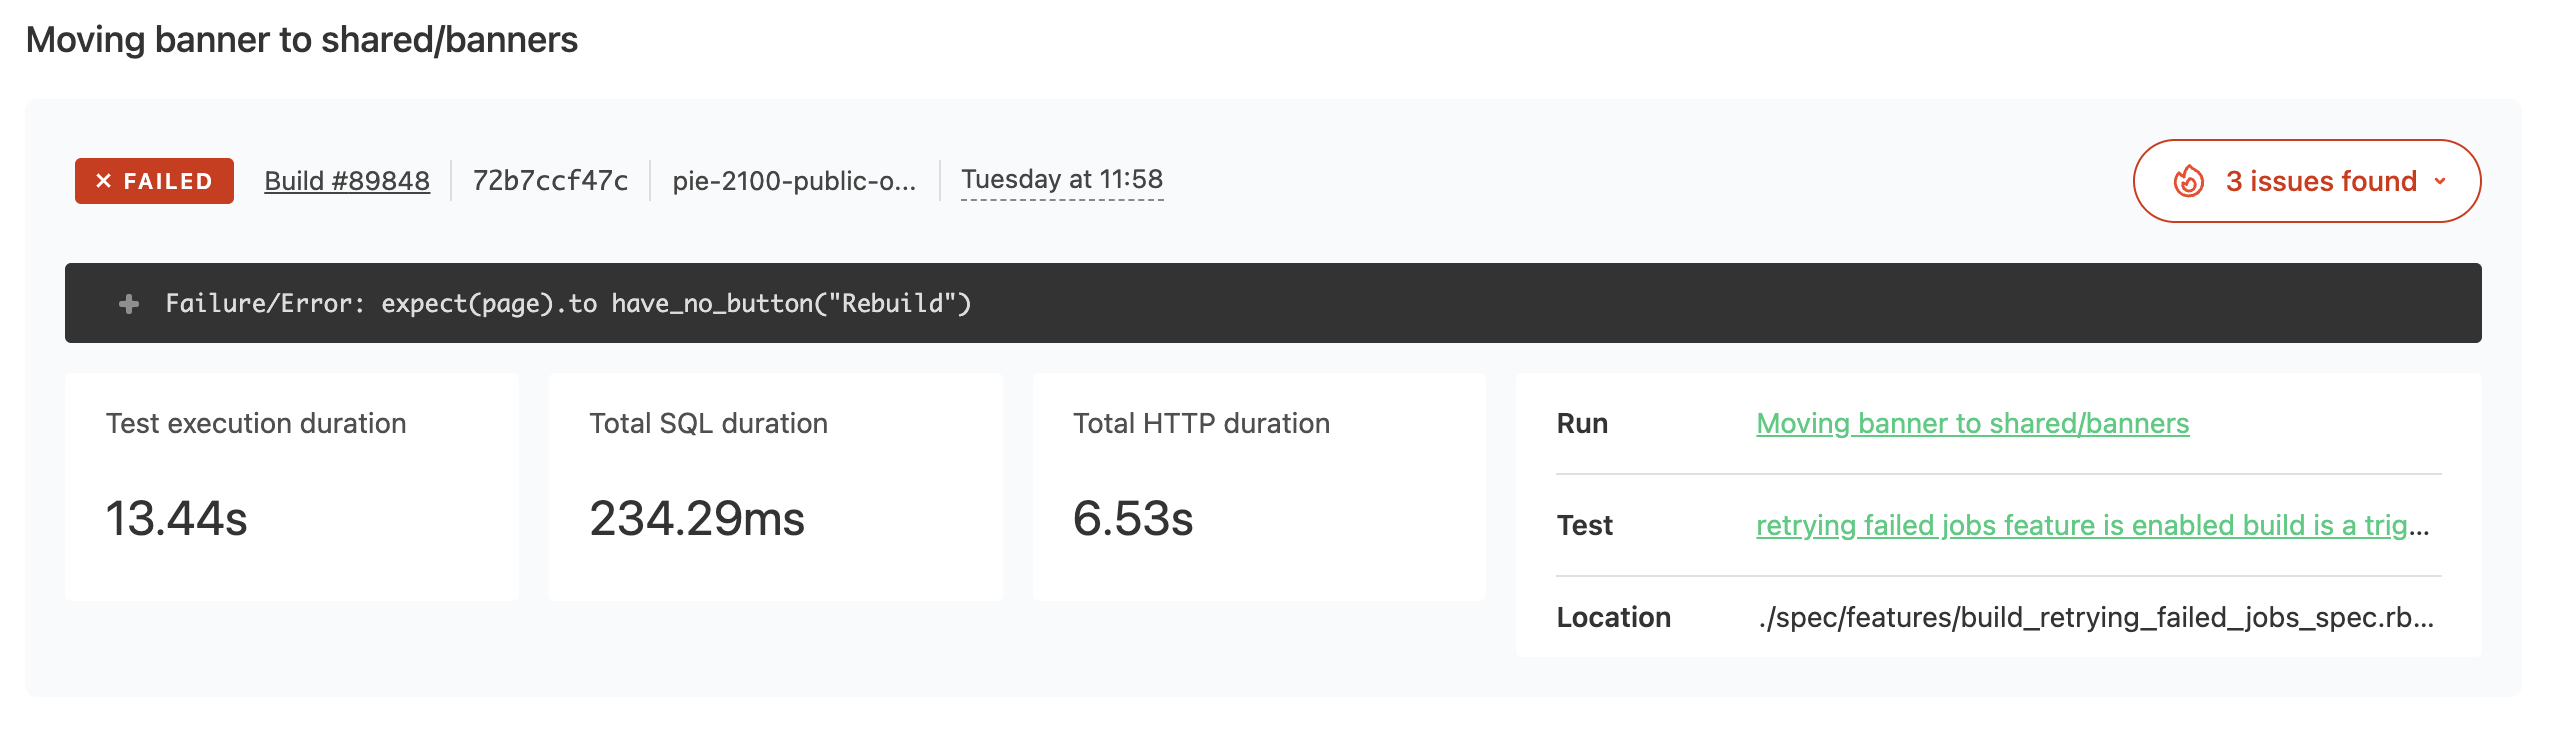
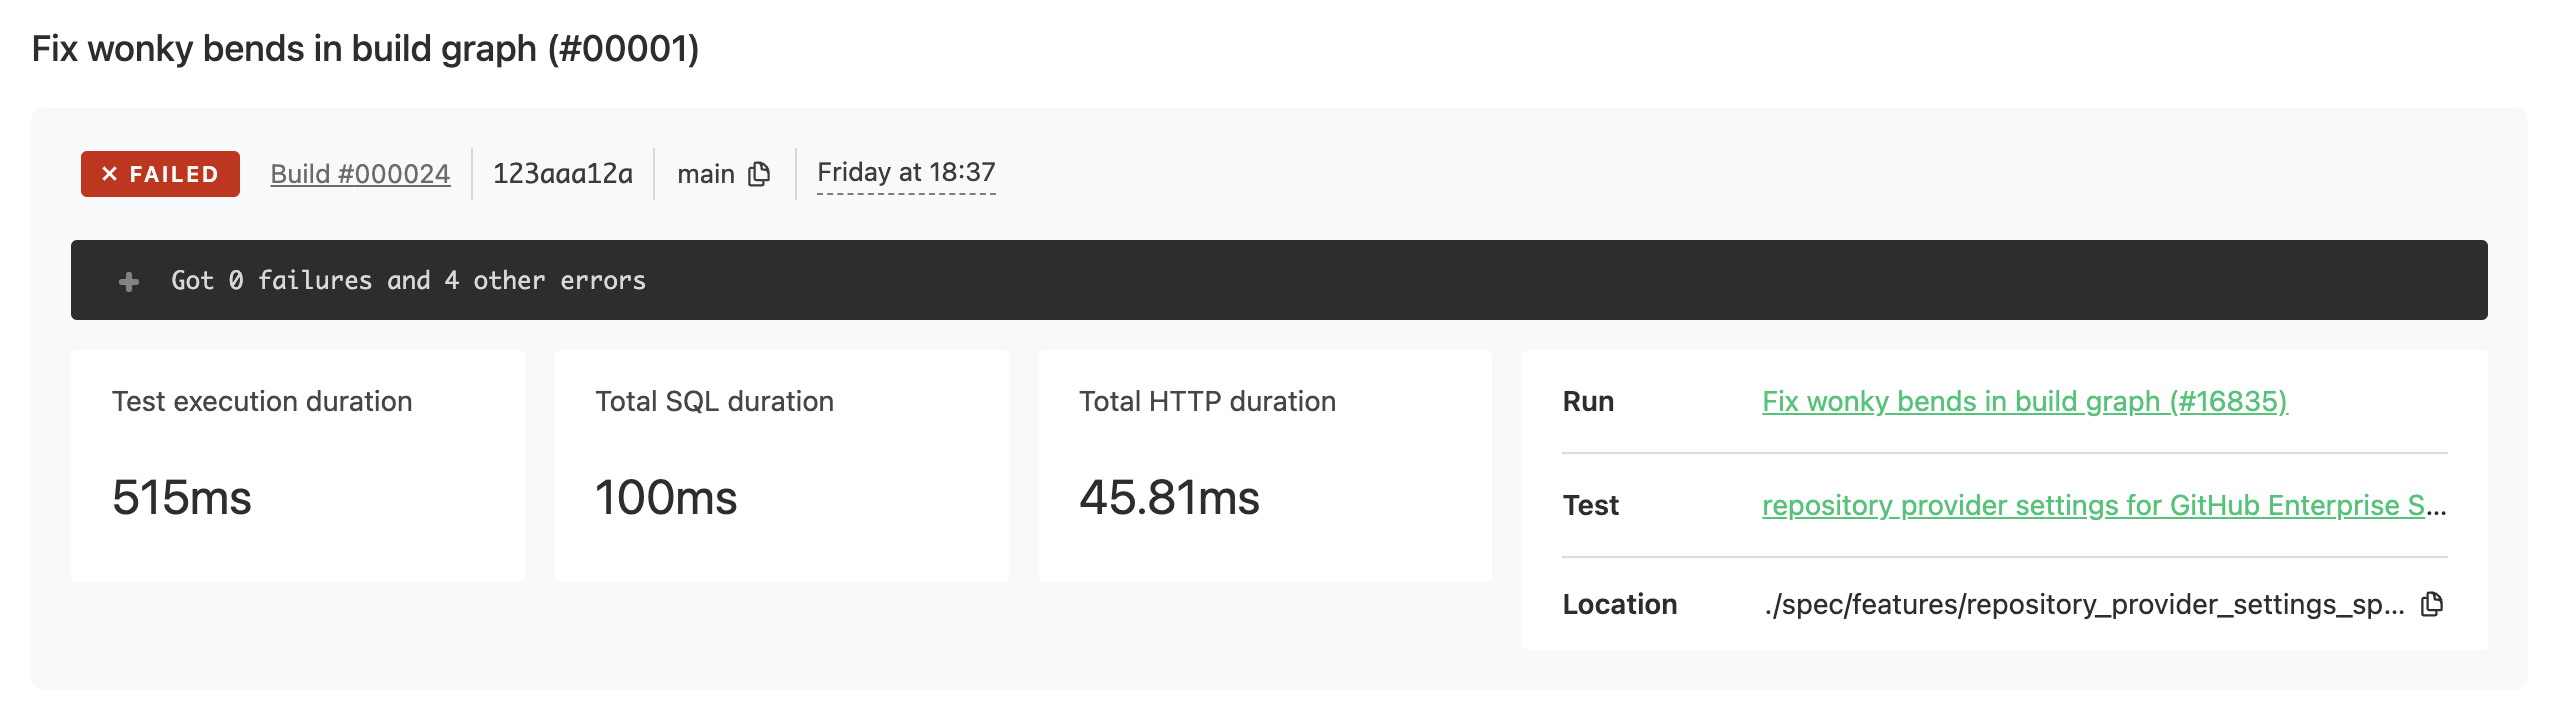
replace screenshot in trends and analysis section

diff --git a/pages/test_analytics/test_suites.md b/pages/test_analytics/test_suites.md
@@ -55,7 +55,7 @@ For individual tests, views include trend information on reliability, test execu
 
 <%= image "test-stats.png", width: 1166, height: 327, alt: "Screenshot of test trend page showing test trend information over the last 28 days, including test reliability and test execution durations" %>
 
-Select any individual test execution to see more trend and deep-dive information, including any issues found within the execution.
+Select any individual test execution to see more trend and deep-dive information.
 
 <%= image "test-execution-stats.png", width: 1170, height: 578, alt: "Screenshot of individual test execution page showing test information related to that individual execution of the test" %>
 
